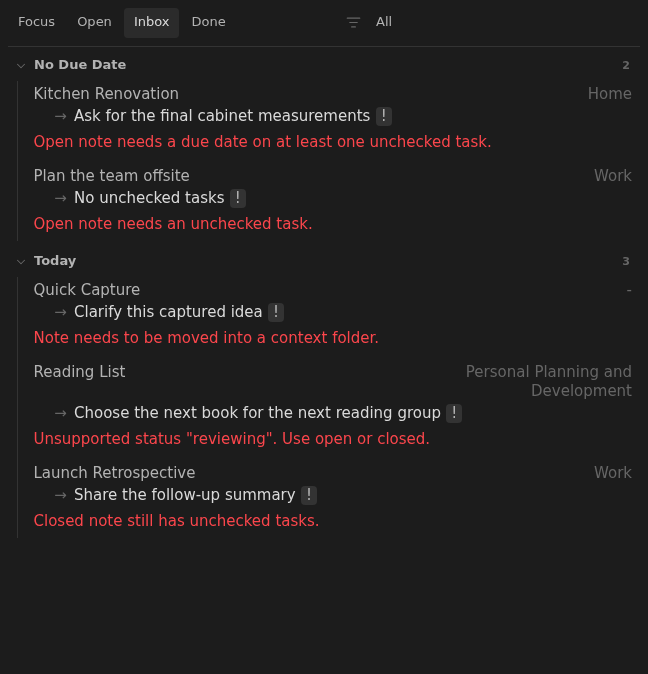
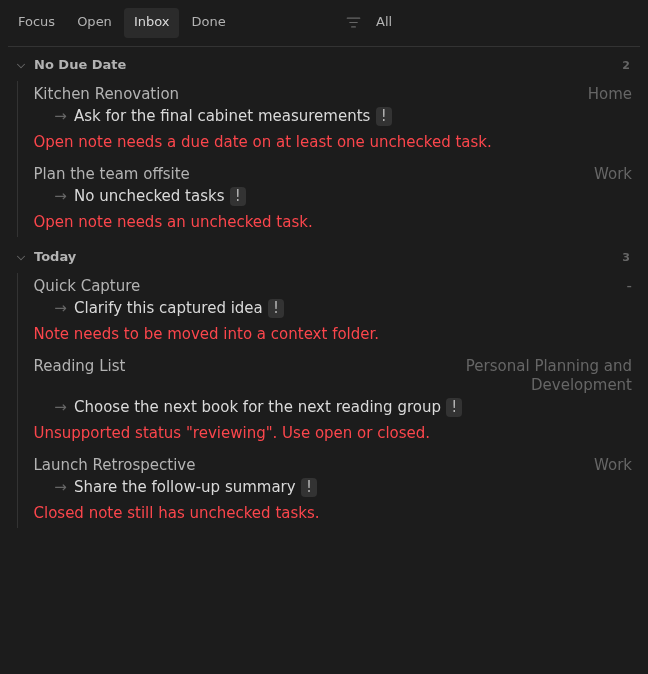
save

diff --git a/features/actions-board-task-controls/wdio.ts b/features/actions-board-task-controls/wdio.ts
@@ -57,6 +57,8 @@ async function rowControlsState(rowText: string) {
     ].map((button) => button.textContent?.trim() ?? "");
 
     return {
+      rowBounds: row?.getBoundingClientRect().toJSON(),
+      actionBounds: actions?.getBoundingClientRect().toJSON(),
       backgroundColor: actions ? getComputedStyle(actions).backgroundColor : "",
       shifts,
     };
@@ -71,11 +73,26 @@ export const { acceptanceScenarios, screenshotScenarios } = featureScenarios(
         title: "shows the compact due-date controls on an opaque strip",
         async run() {
           await tasksEyePage.openBoard("open", ACTION);
-          await tasksEyePage.focusRowAction(
+          const before = await rowControlsState(ACTION);
+          await tasksEyePage.hoverRowAction(
             ACTION,
             "Move due date 1 day earlier",
           );
           const state = await rowControlsState(ACTION);
+          expect(state.rowBounds).toEqual(before.rowBounds);
+          expect(
+            Math.abs(
+              state.actionBounds.y +
+                state.actionBounds.height / 2 -
+                (state.rowBounds.y + state.rowBounds.height / 2),
+            ),
+          ).toBeLessThanOrEqual(1);
+          expect(
+            state.rowBounds.right - state.actionBounds.right,
+          ).toBeLessThanOrEqual(8);
+          expect(state.actionBounds.right).toBeLessThanOrEqual(
+            state.rowBounds.right,
+          );
           expect(state.shifts).toEqual(["-1", "+1", "+7"]);
           expect(state.backgroundColor).not.toBe("");
           expect(state.backgroundColor).not.toBe("transparent");
@@ -107,11 +124,11 @@ export const { acceptanceScenarios, screenshotScenarios } = featureScenarios(
         screenshotSlug: "controls",
         async run({ save }) {
           const root = await tasksEyePage.openBoard("open", ACTION);
-          await tasksEyePage.focusRowAction(
+          await tasksEyePage.hoverRowAction(
             ACTION,
             "Move due date 1 day earlier",
           );
-          await save(root);
+          await save(root, { preserveHover: true });
         },
       },
     ],

diff --git a/acceptance/support/tasks-eye.ts b/acceptance/support/tasks-eye.ts
@@ -39,7 +39,12 @@ export interface VisualVariant {
 export interface FeatureScreenshotScenario {
   screenshotSlug: string;
   fixture: FeatureFixture;
-  run: (context: { save: (element: WdioElement) => Promise<void> }) => Promise<void>;
+  run: (context: {
+    save: (
+      element: WdioElement,
+      options?: { preserveHover?: boolean },
+    ) => Promise<void>;
+  }) => Promise<void>;
 }
 
 export interface FeatureAcceptanceScenario {
@@ -391,7 +396,15 @@ async function recordVisualResult(result: VisualRunResult): Promise<void> {
   await writeVisualManifest();
 }
 
-async function prepareStableCapture(): Promise<void> {
+async function prepareStableCapture(preserveHover = false): Promise<void> {
+  if (preserveHover) {
+    // Hover scenarios establish the pointer position and wait for controls first.
+    // Disabling pointer events here would hide the state being documented.
+    await browser.execute(async () => {
+      await document.fonts.ready;
+    });
+    return;
+  }
   await browser.execute(async () => {
     const style = document.createElement("style");
     style.id = "tasks-eye-visual-capture";
@@ -515,6 +528,7 @@ export async function checkFeatureDocSnapshot(
   variant: VisualVariant,
   screenshotSlug: string,
   element: WdioElement,
+  options: { preserveHover?: boolean } = {},
 ): Promise<void> {
   const key = portablePath(snapshotPathFor(
     featureSlug,
@@ -527,7 +541,7 @@ export async function checkFeatureDocSnapshot(
   const baselineExists = await exists(baseline);
   let comparison: Awaited<ReturnType<typeof browser.checkElement>>;
 
-  await prepareStableCapture();
+  await prepareStableCapture(options.preserveHover);
   try {
     comparison = await compareElementWithRetry(element, screenshotSlug, {
       baselineFolder: path.dirname(baseline),

diff --git a/acceptance/support/tasks-eye-page.ts b/acceptance/support/tasks-eye-page.ts
@@ -1,4 +1,4 @@
-import { $, browser } from "@wdio/globals";
+import { $, $$, browser } from "@wdio/globals";
 import type { DueBucket } from "../../src/constants";
 
 export type EyeMode = "focus" | "open" | "inbox";
@@ -221,8 +221,14 @@ export const tasksEyePage = {
     }
   },
 
-  async focusRowAction(rowText: string, ariaLabel: string): Promise<void> {
+  async hoverRowAction(rowText: string, ariaLabel: string): Promise<void> {
     await this.expectRowAction(rowText, ariaLabel);
+    for (const row of await $$(`${PLUGIN} .eye-row`)) {
+      if ((await row.getText()).includes(rowText)) {
+        await row.moveTo();
+        break;
+      }
+    }
     await browser.waitUntil(async () => await browser.execute((text, label) => {
       const rows = document.querySelectorAll<HTMLElement>(
         ".workspace-leaf.mod-active .eye-plugin .eye-row",
@@ -232,14 +238,13 @@ export const tasksEyePage = {
       );
       const button = [...row?.querySelectorAll<HTMLButtonElement>("button") ?? []]
         .find((candidate) => candidate.getAttribute("aria-label") === label);
-      button?.focus();
-      return button !== undefined && document.activeElement === button &&
+      return button !== undefined && row?.matches(":hover") &&
         getComputedStyle(
           row?.querySelector<HTMLElement>(".eye-actions") ?? document.body,
         ).opacity === "1";
     }, rowText, ariaLabel), {
       timeout: 10_000,
-      timeoutMsg: `Expected row "${rowText}" to focus action "${ariaLabel}"`,
+      timeoutMsg: `Expected row "${rowText}" to show action "${ariaLabel}" on hover`,
     });
   },
 

diff --git a/styles.css b/styles.css
@@ -533,30 +533,31 @@
 .eye-actions {
   align-content: start;
   align-items: center;
-  background: var(
-    --nav-item-background-hover,
-    var(--background-modifier-hover)
+  background-color: var(--background-primary);
+  background-image: linear-gradient(
+    var(--nav-item-background-hover, var(--background-modifier-hover)),
+    var(--nav-item-background-hover, var(--background-modifier-hover))
   );
   border-radius: var(--radius-s, 4px);
   display: flex;
   flex-wrap: nowrap;
   gap: 2px;
   justify-content: end;
-  max-height: 0;
   overflow: hidden;
   opacity: 0;
-  padding: 0;
+  padding: 2px;
   pointer-events: none;
-  transition: max-height 120ms ease, opacity 120ms ease, padding 120ms ease;
+  position: absolute;
+  right: 6px;
+  top: 50%;
+  transform: translateY(-50%);
+  transition: opacity 120ms ease;
   width: max-content;
-  align-self: end;
+  z-index: 1;
 }
 
-.eye-row:hover .eye-actions,
-.eye-row:focus-within .eye-actions {
-  max-height: 28px;
+.eye-row:hover .eye-actions {
   opacity: 1;
-  padding: 2px;
   pointer-events: auto;
 }
 
@@ -696,11 +697,6 @@
 }
 
 @media (max-width: 640px) {
-  .eye-actions {
-    justify-content: start;
-    align-self: start;
-  }
-
   .eye-context-badge {
     max-width: 72px;
   }
@@ -708,13 +704,8 @@
 
 @media (hover: none) {
   .eye-actions {
-    justify-self: start;
-    justify-content: start;
-    align-self: start;
-    max-height: 28px;
     opacity: 1;
     overflow: visible;
     pointer-events: auto;
-    padding: 2px;
   }
 }

diff --git a/acceptance/specs/tasks-eye.e2e.ts b/acceptance/specs/tasks-eye.e2e.ts
@@ -51,11 +51,12 @@ describe("Tasks Eye acceptance", () => {
             await resetFixtureVault(scenario.fixture);
             await applyVisualVariant(variant);
             await scenario.run({
-              save: (element) => checkFeatureDocSnapshot(
+              save: (element, options) => checkFeatureDocSnapshot(
                 feature.feature.slug,
                 variant,
                 scenario.screenshotSlug,
                 element,
+                options,
               ),
             });
           },
